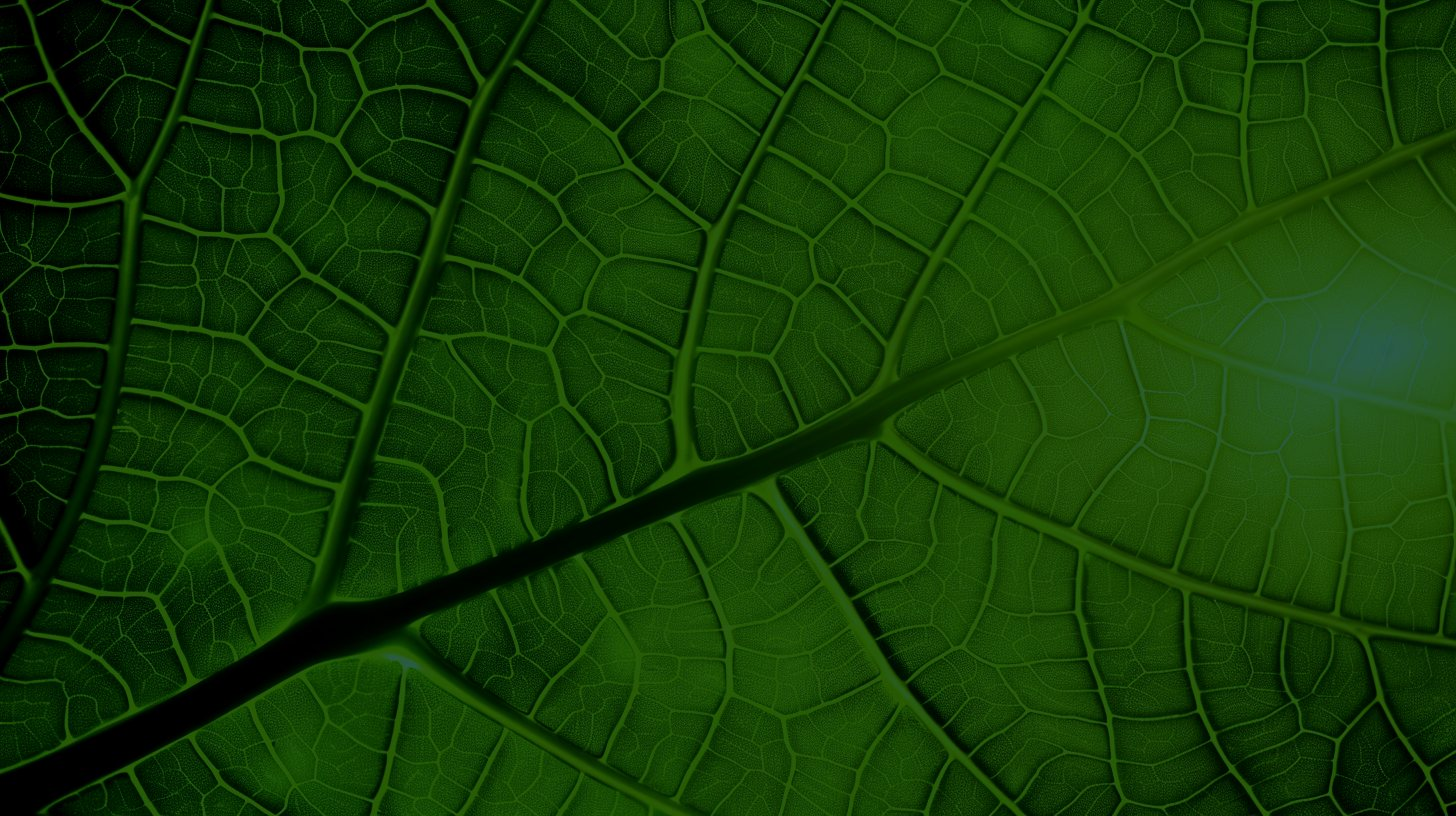
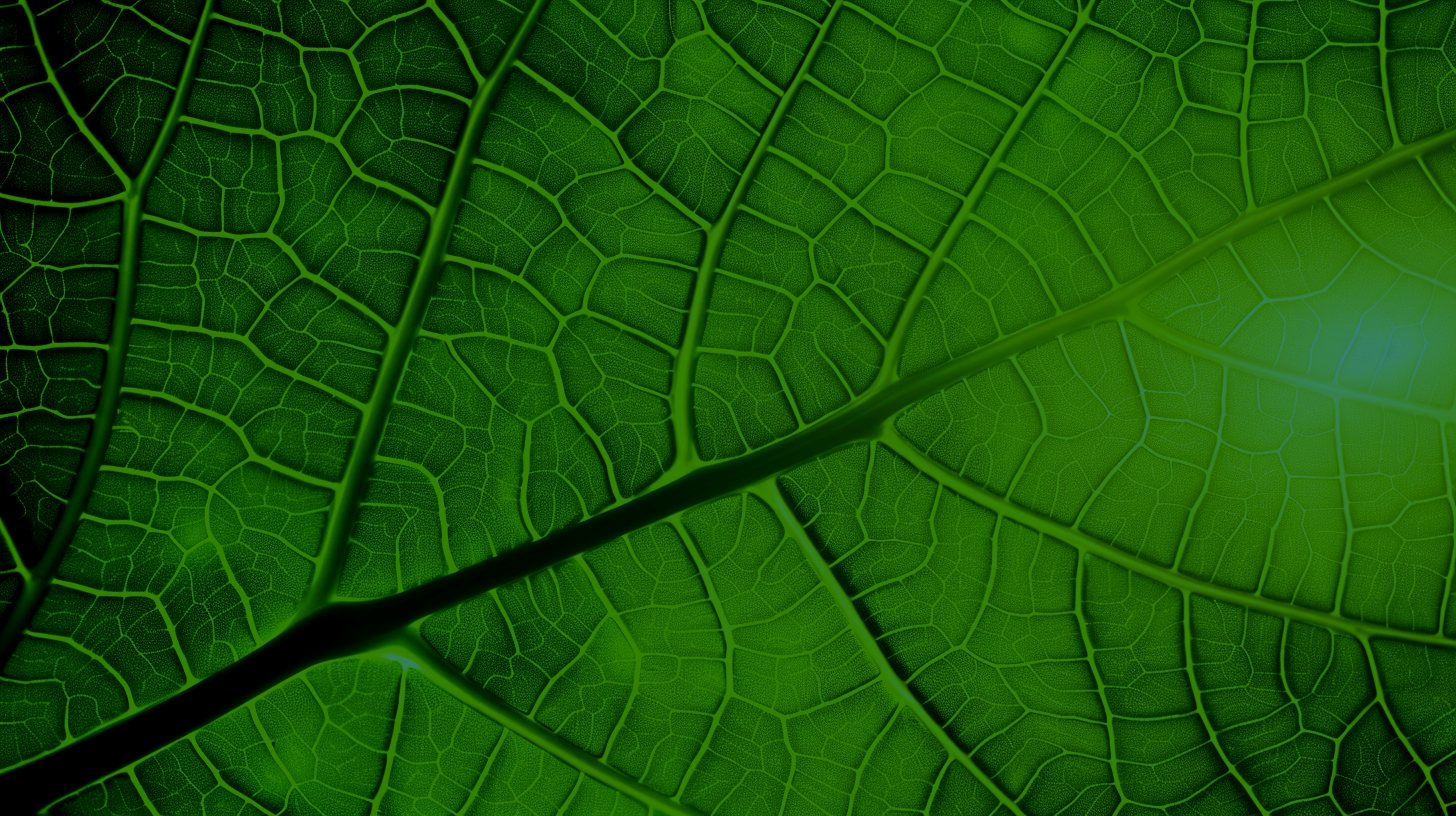
Amplify leaf-vein theme: brighter leaf, stronger sap flows

diff --git a/docs/assets/index-DJB-inN4.css b/docs/assets/index-DJB-inN4.css
@@ -1,0 +1,1 @@
+/*! tailwindcss v4.3.3 | MIT License | https://tailwindcss.com */@layer properties{@supports (((-webkit-hyphens:none)) and (not (margin-trim:inline))) or ((-moz-orient:inline) and (not (color:rgb(from red r g b)))){*,:before,:after,::backdrop{--tw-rotate-x:initial;--tw-rotate-y:initial;--tw-rotate-z:initial;--tw-skew-x:initial;--tw-skew-y:initial;--tw-shadow:0 0 #0000;--tw-shadow-color:initial;--tw-shadow-alpha:100%;--tw-inset-shadow:0 0 #0000;--tw-inset-shadow-color:initial;--tw-inset-shadow-alpha:100%;--tw-ring-color:initial;--tw-ring-shadow:0 0 #0000;--tw-inset-ring-color:initial;--tw-inset-ring-shadow:0 0 #0000;--tw-ring-inset:initial;--tw-ring-offset-width:0px;--tw-ring-offset-color:#fff;--tw-ring-offset-shadow:0 0 #0000;--tw-blur:initial;--tw-brightness:initial;--tw-contrast:initial;--tw-grayscale:initial;--tw-hue-rotate:initial;--tw-invert:initial;--tw-opacity:initial;--tw-saturate:initial;--tw-sepia:initial;--tw-drop-shadow:initial;--tw-drop-shadow-color:initial;--tw-drop-shadow-alpha:100%;--tw-drop-shadow-size:initial;--tw-ease:initial}}}@layer theme{:root,:host{--font-sans:-apple-system, BlinkMacSystemFont, "Segoe UI", Roboto, "Helvetica Neue", "Noto Sans", Arial, sans-serif, "Apple Color Emoji", "Segoe UI Emoji", "Segoe UI Symbol", "Noto Color Emoji";--font-mono:ui-monospace, SFMono-Regular, Menlo, Monaco, Consolas, "Liberation Mono", "Courier New", monospace;--ease-in:cubic-bezier(.4, 0, 1, 1);--ease-out:cubic-bezier(0, 0, .2, 1);--ease-in-out:cubic-bezier(.4, 0, .2, 1);--default-transition-duration:.15s;--default-transition-timing-function:cubic-bezier(.4, 0, .2, 1);--default-font-family:var(--font-sans);--default-mono-font-family:var(--font-mono)}}@layer base{*,:after,:before,::backdrop{box-sizing:border-box;border:0 solid;margin:0;padding:0}::file-selector-button{box-sizing:border-box;border:0 solid;margin:0;padding:0}html,:host{-webkit-text-size-adjust:100%;-moz-tab-size:4;tab-size:4;line-height:1.5;font-family:var(--default-font-family,-apple-system, BlinkMacSystemFont, "Segoe UI", Roboto, "Helvetica Neue", "Noto Sans", Arial, sans-serif, "Apple Color Emoji", "Segoe UI Emoji", "Segoe UI Symbol", "Noto Color Emoji");font-feature-settings:var(--default-font-feature-settings,normal);font-variation-settings:var(--default-font-variation-settings,normal);-webkit-tap-highlight-color:transparent}hr{height:0;color:inherit;border-top-width:1px}abbr:where([title]){-webkit-text-decoration:underline dotted;text-decoration:underline dotted}h1,h2,h3,h4,h5,h6{font-size:inherit;font-weight:inherit}a{color:inherit;-webkit-text-decoration:inherit;text-decoration:inherit}b,strong{font-weight:bolder}code,kbd,samp,pre{font-family:var(--default-mono-font-family,ui-monospace, SFMono-Regular, Menlo, Monaco, Consolas, "Liberation Mono", "Courier New", monospace);font-feature-settings:var(--default-mono-font-feature-settings,normal);font-variation-settings:var(--default-mono-font-variation-settings,normal);font-size:1em}small{font-size:80%}sub,sup{vertical-align:baseline;font-size:75%;line-height:0;position:relative}sub{bottom:-.25em}sup{top:-.5em}table{text-indent:0;border-color:inherit;border-collapse:collapse}:-moz-focusring:where(:not(iframe)){outline:auto}progress{vertical-align:baseline}summary{display:list-item}ol,ul,menu{list-style:none}img,svg,video,canvas,audio,iframe,embed,object{vertical-align:middle;display:block}img,video{max-width:100%;height:auto}button,input,select,optgroup,textarea{font:inherit;font-feature-settings:inherit;font-variation-settings:inherit;letter-spacing:inherit;color:inherit;opacity:1;background-color:#0000;border-radius:0}::file-selector-button{font:inherit;font-feature-settings:inherit;font-variation-settings:inherit;letter-spacing:inherit;color:inherit;opacity:1;background-color:#0000;border-radius:0}:where(select:is([multiple],[size])) optgroup{font-weight:bolder}:where(select:is([multiple],[size])) optgroup option{padding-inline-start:20px}::file-selector-button{margin-inline-end:4px}::placeholder{opacity:1}@supports (not ((-webkit-appearance:-apple-pay-button))) or (contain-intrinsic-size:1px){::placeholder{color:currentColor}@supports (color:color-mix(in lab,red,red)){::placeholder{color:color-mix(in oklab,currentcolor 50%,transparent)}}}textarea{resize:vertical}::-webkit-search-decoration{-webkit-appearance:none}::-webkit-date-and-time-value{min-height:1lh;text-align:inherit}::-webkit-datetime-edit{display:inline-flex}::-webkit-datetime-edit-fields-wrapper{padding:0}::-webkit-datetime-edit{padding-block:0}::-webkit-datetime-edit-year-field{padding-block:0}::-webkit-datetime-edit-month-field{padding-block:0}::-webkit-datetime-edit-day-field{padding-block:0}::-webkit-datetime-edit-hour-field{padding-block:0}::-webkit-datetime-edit-minute-field{padding-block:0}::-webkit-datetime-edit-second-field{padding-block:0}::-webkit-datetime-edit-millisecond-field{padding-block:0}::-webkit-datetime-edit-meridiem-field{padding-block:0}::-webkit-calendar-picker-indicator{line-height:1}:-moz-ui-invalid{box-shadow:none}button,input:where([type=button],[type=reset],[type=submit]){-webkit-appearance:button;-moz-appearance:button;appearance:button}::file-selector-button{-webkit-appearance:button;-moz-appearance:button;appearance:button}::-webkit-inner-spin-button{height:auto}::-webkit-outer-spin-button{height:auto}[hidden]:where(:not([hidden=until-found])){display:none!important}}@layer components;@layer utilities{.visible{visibility:visible}.absolute{position:absolute}.fixed{position:fixed}.relative{position:relative}.static{position:static}.contents{display:contents}.flex{display:flex}.grid{display:grid}.hidden{display:none}.table{display:table}.transform{transform:var(--tw-rotate-x,) var(--tw-rotate-y,) var(--tw-rotate-z,) var(--tw-skew-x,) var(--tw-skew-y,)}.resize{resize:both}.italic{font-style:italic}.ring{--tw-ring-shadow:var(--tw-ring-inset,) 0 0 0 calc(1px + var(--tw-ring-offset-width)) var(--tw-ring-color,currentcolor);box-shadow:var(--tw-inset-shadow),var(--tw-inset-ring-shadow),var(--tw-ring-offset-shadow),var(--tw-ring-shadow),var(--tw-shadow)}.blur{--tw-blur:blur(8px);filter:var(--tw-blur,) var(--tw-brightness,) var(--tw-contrast,) var(--tw-grayscale,) var(--tw-hue-rotate,) var(--tw-invert,) var(--tw-saturate,) var(--tw-sepia,) var(--tw-drop-shadow,)}.drop-shadow{--tw-drop-shadow-size:drop-shadow(0 1px 2px var(--tw-drop-shadow-color,#0000001a)) drop-shadow(0 1px 1px var(--tw-drop-shadow-color,#0000000f));--tw-drop-shadow:drop-shadow(0 1px 2px #0000001a) drop-shadow(0 1px 1px #0000000f);filter:var(--tw-blur,) var(--tw-brightness,) var(--tw-contrast,) var(--tw-grayscale,) var(--tw-hue-rotate,) var(--tw-invert,) var(--tw-saturate,) var(--tw-sepia,) var(--tw-drop-shadow,)}.filter{filter:var(--tw-blur,) var(--tw-brightness,) var(--tw-contrast,) var(--tw-grayscale,) var(--tw-hue-rotate,) var(--tw-invert,) var(--tw-saturate,) var(--tw-sepia,) var(--tw-drop-shadow,)}.transition{transition-property:color,background-color,border-color,outline-color,text-decoration-color,fill,stroke,--tw-gradient-from,--tw-gradient-via,--tw-gradient-to,opacity,box-shadow,transform,translate,scale,rotate,filter,-webkit-backdrop-filter,backdrop-filter,display,content-visibility,overlay,pointer-events;transition-timing-function:var(--tw-ease,var(--default-transition-timing-function));transition-duration:var(--tw-duration,var(--default-transition-duration))}.transition\!{transition-property:color,background-color,border-color,outline-color,text-decoration-color,fill,stroke,--tw-gradient-from,--tw-gradient-via,--tw-gradient-to,opacity,box-shadow,transform,translate,scale,rotate,filter,-webkit-backdrop-filter,backdrop-filter,display,content-visibility,overlay,pointer-events!important;transition-timing-function:var(--tw-ease,var(--default-transition-timing-function))!important;transition-duration:var(--tw-duration,var(--default-transition-duration))!important}.ease-in{--tw-ease:var(--ease-in);transition-timing-function:var(--ease-in)}.ease-in-out{--tw-ease:var(--ease-in-out);transition-timing-function:var(--ease-in-out)}.ease-out{--tw-ease:var(--ease-out);transition-timing-function:var(--ease-out)}}:root{--ink:#f0f0ec;--ink-dim:#f0f0ec9e;--ink-faint:#f0f0ec61;--base:#050505;--gold:#e8a84c;--gold-soft:#e8a84c8c;--nebula:#8e7cc3;--teal:#3fa39a;--pulse:#59d9a0;--pulse-blue:#4fa8d8;--forest:#131a12;--serif:"Playfair Display", Georgia, serif;--grotesk:"Space Grotesk", system-ui, sans-serif;--body:"Inter", system-ui, sans-serif;--mono:"JetBrains Mono", ui-monospace, monospace}html,body{background:var(--base);color:var(--ink)}body{font-family:var(--body);-webkit-font-smoothing:antialiased;margin:0;font-size:16px;line-height:1.6}h1,h2,h3{font-family:var(--grotesk);margin:0;font-weight:600;line-height:1.12}a{color:inherit}::selection{background:#e8a84c59}.serif-display{font-family:var(--serif);letter-spacing:.005em;font-weight:500;line-height:1.06}.mono-label{font-family:var(--mono);letter-spacing:.22em;text-transform:uppercase;color:var(--ink-faint);font-size:.685rem}.thin-rule{border:0;border-top:1px solid #f0f0ec1f}:focus-visible{outline:1.5px solid var(--gold);outline-offset:3px;border-radius:2px}@keyframes sn-bloom{0%,to{opacity:.35}50%{opacity:.7}}@keyframes sn-flicker{0%,to{opacity:1}46%{opacity:.965}52%{opacity:.99}71%{opacity:.955}}@keyframes sn-rise{0%{opacity:0;transform:translateY(0)translate(0)}12%{opacity:var(--fly-peak,.8)}88%{opacity:var(--fly-peak,.8)}to{transform:translateY(-46vh) translate(var(--fly-drift,12px));opacity:0}}@keyframes sn-ring-spin{0%{transform:rotate(0)}to{transform:rotate(360deg)}}@keyframes sn-ring-spin-rev{0%{transform:rotate(0)}to{transform:rotate(-360deg)}}@keyframes sn-tick{0%,to{opacity:.25}50%{opacity:.9}}@keyframes sn-stream-x{0%{transform:translate(-30%)}to{transform:translate(130vw)}}@keyframes sn-stream-y{0%{transform:translateY(-30%)}to{transform:translateY(130vh)}}@keyframes sn-twinkle{0%,to{opacity:.25}50%{opacity:.85}}@keyframes sn-drift{0%{transform:translateY(0)}to{transform:translateY(-38px)}}@keyframes sn-chart-draw{0%{stroke-dashoffset:260px}to{stroke-dashoffset:0}}@keyframes sn-bar{0%,to{transform:scaleY(.55)}50%{transform:scaleY(1)}}@keyframes sn-type{0%{width:0}to{width:100%}}@keyframes sn-caret{0%,to{opacity:0}50%{opacity:1}}@keyframes sn-glow-pulse{0%,to{box-shadow:0 0 18px 2px var(--glow-c,#e8a84c1a)}50%{box-shadow:0 0 30px 6px var(--glow-c,#e8a84c38)}}.stage-viewport{background:var(--base);position:fixed;top:0;right:0;bottom:0;left:0;overflow:hidden}.stage-viewport.letterboxed:before,.stage-viewport.letterboxed:after{content:"";z-index:2;pointer-events:none;height:24%;position:absolute;left:0;right:0}.stage-viewport.letterboxed:before{background:linear-gradient(180deg,var(--base) 6%,transparent 100%);top:0}.stage-viewport.letterboxed:after{background:linear-gradient(0deg,var(--base) 6%,transparent 100%);bottom:0}.stage{position:absolute;top:50%;left:50%;transform:translate(-50%,-50%)}.stage img.stage-img{width:100%;height:100%;display:block;position:absolute;top:0;right:0;bottom:0;left:0}.screen-surface{transform-origin:0 0;animation:4s ease-in-out infinite sn-flicker;display:block;position:absolute;top:0;left:0;overflow:hidden}.screen-surface .screen-inner{filter:brightness(.92);width:100%;height:100%;animation:.95s ease-out sn-power-on;animation-delay:var(--pon-delay,0s);transition:filter .45s;animation-fill-mode:backwards;position:relative}@keyframes sn-power-on{0%{opacity:0;filter:brightness(0)}9%{opacity:1;filter:brightness(2.1)}20%{opacity:.5;filter:brightness(.45)}34%{opacity:1;filter:brightness(1.55)}58%{opacity:1;filter:brightness(.78)}to{opacity:1;filter:brightness(.92)}}.screen-link{cursor:pointer}.screen-link:hover .screen-inner,.screen-link:focus-visible .screen-inner{filter:brightness(1.12)}.screen-label{opacity:0;white-space:nowrap;color:var(--ink);font-family:var(--mono);letter-spacing:.28em;text-shadow:0 0 12px #000000e6;font-size:11px;transition:opacity .45s;position:absolute;bottom:7%;left:50%;transform:translate(-50%)}.screen-link:hover .screen-label,.screen-link:focus-visible .screen-label{opacity:.9}.sun-bloom{pointer-events:none;mix-blend-mode:screen;background:radial-gradient(#ffc46e6b,#ffaa4624 42%,#0000 70%);animation:4.2s ease-in-out infinite sn-bloom;position:absolute}.firefly{pointer-events:none;animation:sn-rise var(--fly-dur,14s) linear infinite;animation-delay:var(--fly-delay,0s);mix-blend-mode:screen;background:radial-gradient(circle,#ffd68cf2,#ffbe5a59 45%,#0000 75%);border-radius:999px;position:absolute}.home-quiet-nav{z-index:5;gap:2.6rem;display:flex;position:fixed;bottom:4.5vh;left:50%;transform:translate(-50%)}.home-quiet-nav a{font-family:var(--mono);letter-spacing:.3em;text-transform:uppercase;color:var(--ink-faint);font-size:10.5px;text-decoration:none;transition:color .35s}.home-quiet-nav a:hover{color:var(--ink)}.sui{width:100%;height:100%;color:var(--ink);font-family:var(--mono);background:#0a0d0a;position:relative;overflow:hidden}.sui-pad{position:absolute;top:6.5%;right:7%;bottom:6.5%;left:7%}.sui-title{letter-spacing:.3em;color:var(--ink-dim);font-size:13px;transition:opacity .3s}.screen-link:hover .sui-title,.screen-link:focus-visible .sui-title{opacity:0}.sui-hr{border-top:1px solid #f0f0ec24;margin:10px 0}.sui-row{color:var(--ink-dim);justify-content:space-between;padding:6px 0;font-size:12.5px;display:flex}.sui-row b{color:var(--ink);font-weight:500}.sui-bars{align-items:flex-end;gap:7px;height:74px;display:flex}.sui-bars span{transform-origin:bottom;animation:sn-bar var(--bar-dur,3.4s) ease-in-out infinite;animation-delay:var(--bar-delay,0s);background:linear-gradient(#59d9a0d9,#59d9a040);flex:1}.sui-typeline{white-space:nowrap;color:var(--pulse);font-size:12px;animation:5.2s steps(38,end) infinite sn-type;overflow:hidden}.sui-dot{background:var(--pulse);vertical-align:1px;border-radius:99px;width:7px;height:7px;margin-right:8px;animation:2.2s ease-in-out infinite sn-tick;display:inline-block}.sui-rings{position:absolute;top:0;right:0;bottom:0;left:0}.sui-ring{border:1.5px solid;border-radius:999px;position:absolute}.sui-center-logo{object-fit:contain;filter:drop-shadow(0 0 18px #59d9a040);width:58%;max-height:82%}.page{min-height:100dvh;position:relative;overflow-x:clip}.page-inner{z-index:2;max-width:1460px;margin:0 auto;padding:clamp(5.5rem,10vh,8rem) clamp(1.25rem,5vw,4.5rem) 6rem;position:relative}.wordmark{z-index:40;align-items:center;gap:.7rem;text-decoration:none;display:flex;position:fixed;top:2rem;left:clamp(1.25rem,4vw,3rem)}.wordmark:before{content:"";z-index:-1;pointer-events:none;background:linear-gradient(#050505f5,#050505b8 52%,#0000);height:5.4rem;position:fixed;top:0;left:0;right:0}.wordmark img{object-fit:contain;width:30px;height:30px}.wordmark span{font-family:var(--grotesk);letter-spacing:.34em;color:var(--ink-dim);font-size:.82rem;transition:color .3s}.wordmark .wordmark-arrow{font-family:var(--mono);letter-spacing:0;color:var(--accent,var(--gold));font-size:1rem;transition:transform .3s}.wordmark:hover span{color:var(--ink)}.wordmark:hover .wordmark-arrow{transform:translate(-4px)}.wordmark-right{left:auto;right:clamp(1.25rem,4vw,3rem)}.wordmark-right:hover .wordmark-arrow{transform:translate(4px)}.crosslink{font-family:var(--mono);letter-spacing:.26em;text-transform:uppercase;color:var(--ink-faint);font-size:11px;text-decoration:none}.crosslink:hover{color:var(--ink)}.cta-block{text-align:center;margin-top:clamp(5rem,12vh,8rem)}.cta-statement{color:var(--ink);font-size:clamp(2.4rem,6vw,4.6rem)}.cta-button{font-family:var(--mono);letter-spacing:.3em;text-transform:uppercase;color:var(--ink);border:1px solid #f0f0ec47;margin-top:2.2rem;padding:1rem 2.6rem;font-size:.8rem;text-decoration:none;transition:border-color .35s,background .35s,color .35s;display:inline-block}.cta-button:hover{border-color:var(--accent,var(--gold));background:#f0f0ec0d}.cosmos-bg{z-index:0;background:radial-gradient(1100px 700px at 78% 30%,#8e7cc329,#0000 65%),radial-gradient(900px 640px at 20% 78%,#3fa39a21,#0000 65%),linear-gradient(#03050f,#0a0a1a);position:absolute;top:0;right:0;bottom:0;left:0;overflow:hidden}.stars{animation:90s linear infinite alternate sn-drift;position:absolute;top:-40px;right:0;bottom:0;left:0}.stars circle{animation:sn-twinkle var(--tw-dur,4s) ease-in-out infinite;animation-delay:var(--tw-delay,0s)}.personal-grid{grid-template-columns:minmax(0,1fr) minmax(0,1.15fr);align-items:center;gap:clamp(2.5rem,6vw,7rem);display:grid}.personal-copy{max-width:38rem;position:relative}.personal-copy:before{content:"";pointer-events:none;background:radial-gradient(circle,#3fa39a17,#0000 70%);border-radius:999px;width:340px;height:340px;position:absolute;top:-3rem;left:-4rem}.pp-eyebrow{color:var(--teal);align-items:center;gap:.8rem;display:inline-flex}.pp-eyebrow:after{content:"";background:#f0f0ec40;width:44px;height:1px}.pp-headline{margin:1.3rem 0 1.6rem;font-size:clamp(2.6rem,4vw,4.4rem)}.pp-lead{color:var(--ink);opacity:.92;margin:0 0 1.15rem;font-size:1.02rem;line-height:1.75}.pp-dim{color:var(--ink-dim);margin:0;font-size:.95rem;line-height:1.75}.pp-section{border-top:1px solid #f0f0ec1a;margin-top:2.6rem;padding-top:1.8rem}.pp-prompt{margin:0 0 .9rem;font-size:1.12rem;font-weight:500}.pp-instruction{align-items:center;gap:.65rem;margin:0;display:flex}.pp-pulse{background:var(--nebula);border-radius:99px;flex:none;width:8px;height:8px;animation:2.6s ease-in-out infinite sn-tick;box-shadow:0 0 12px 2px #8e7cc380}.pp-rows{margin:1.2rem 0 0;padding:0;list-style:none}.pp-row{text-align:left;width:100%;color:var(--ink-dim);font-family:var(--grotesk);cursor:pointer;background:0 0;border:0;border-top:1px solid #f0f0ec14;align-items:center;gap:.9rem;padding:.85rem .2rem;font-size:1rem;transition:color .3s,padding-left .3s;display:flex}.pp-rows li:last-child .pp-row{border-bottom:1px solid #f0f0ec14}.pp-row:hover,.pp-row:focus-visible{color:var(--ink);padding-left:.55rem}.pp-row-dot{opacity:.85;background:radial-gradient(circle,#fff 0%,var(--nebula) 60%,transparent 80%);border-radius:99px;flex:none;width:7px;height:7px}.pp-support{color:var(--ink-faint);margin:1.5rem 0 0;font-size:.85rem;line-height:1.7}.pp-close{margin-top:2.6rem}.pp-close .thin-rule{width:64px;margin:0 0 1.5rem}.pp-close-line{color:var(--ink-dim);margin:0;font-size:1.25rem;font-style:italic;line-height:1.5}.orbit-wrap{aspect-ratio:1;width:100%;max-width:680px;position:relative}.orbit-ring{border:1px solid #f0f0ec1a;border-radius:999px;position:absolute}.orbit-core{place-items:center;display:grid;position:absolute;top:50%;left:50%;transform:translate(-50%,-50%)}.orbit-core img{object-fit:contain;filter:drop-shadow(0 0 26px #8e7cc380);width:108px;height:108px}.orbit-node{cursor:pointer;color:var(--ink);background:0 0;border:0;flex-direction:column;align-items:center;gap:.5rem;min-width:44px;min-height:44px;padding:.65rem;display:flex;position:absolute;transform:translate(-50%,-50%)}.orbit-node .node-dot{background:radial-gradient(circle,#fff 0%,var(--nebula) 55%,transparent 78%);--glow-c:#8e7cc366;border-radius:99px;width:15px;height:15px;transition:transform .35s,box-shadow .35s;animation:6s ease-in-out infinite sn-glow-pulse}.orbit-node:hover .node-dot,.orbit-node:focus-visible .node-dot,.orbit-node.is-hot .node-dot{transform:scale(1.5);box-shadow:0 0 0 11px #8e7cc31f,0 0 26px 6px #8e7cc373}.orbit-node .node-label{font-family:var(--mono);letter-spacing:.22em;text-transform:uppercase;color:#f0f0ecb8;white-space:nowrap;font-size:10px;transition:color .3s}.orbit-node:hover .node-label,.orbit-node:focus-visible .node-label,.orbit-node.is-hot .node-label{color:var(--ink)}.node-hint{font-family:var(--mono);letter-spacing:.26em;text-transform:uppercase;color:var(--nebula);opacity:0;white-space:nowrap;font-size:8.5px;transition:opacity .35s,transform .35s;transform:translateY(-3px)}.orbit-node:hover .node-hint,.orbit-node:focus-visible .node-hint,.orbit-node.is-hot .node-hint{opacity:.95;transform:translateY(0)}.pp-cue-line{background:linear-gradient(90deg,#0000,#8e7cc3a6);width:0;height:1px;margin-left:.9rem;animation:2.2s cubic-bezier(.22,1,.36,1) 1s forwards sn-cue-grow}.pp-cue-arrow{color:var(--nebula);opacity:0;animation:.6s 2.9s forwards sn-cue-show}@keyframes sn-cue-grow{to{width:clamp(40px,8vw,150px)}}@keyframes sn-cue-show{to{opacity:.9}}.orbit-cell{flex-direction:column;align-items:center;gap:.9rem;width:100%;min-width:0;display:flex}.orbit-caption{text-align:center;transition:opacity .4s}.orbit-caption-main{color:var(--ink-dim);align-items:center;gap:.6rem;margin:0;display:inline-flex}.orbit-caption-sub{font-family:var(--serif);color:var(--ink-faint);margin:.45rem 0 0;font-size:.92rem;font-style:italic}.category-card{z-index:6;-webkit-backdrop-filter:blur(14px);backdrop-filter:blur(14px);background:#060814e0;border:1px solid #f0f0ec24;flex-direction:column;padding:clamp(1.4rem,3.2vw,2.6rem);display:flex;position:absolute;top:4%;right:4%;bottom:4%;left:4%;overflow-y:auto}.card-close{color:var(--ink-faint);font-family:var(--mono);letter-spacing:.2em;cursor:pointer;background:0 0;border:0;padding:.4rem;font-size:11px;position:absolute;top:1rem;right:1.1rem}.card-close:hover{color:var(--ink)}.feature-row{border-top:1px solid #f0f0ec17;gap:1rem;padding:.78rem 0;font-size:.92rem;display:flex}.feature-row strong{font-family:var(--grotesk);min-width:11.2rem;color:var(--ink);font-weight:500}.feature-row span{color:var(--ink-dim)}.bz-leaf{z-index:0;pointer-events:none;opacity:.78;background:url(./leaf-bg.jpg) 50% 30%/cover no-repeat fixed;position:absolute;top:0;right:0;bottom:0;left:0}.grid-bg{z-index:0;background:linear-gradient(#060a08cc,#060a086b 38%,#050806d6);position:absolute;top:0;right:0;bottom:0;left:0}.grid-bg:after{content:"";position:absolute;top:0;right:0;bottom:0;left:0;box-shadow:inset 0 0 180px 60px #0000008c}.bz-veins{z-index:1;pointer-events:none;opacity:.8;width:100%;height:100%;position:absolute;top:0;right:0;bottom:0;left:0}.bz-vein-static{fill:none;stroke:#59d9a033;stroke-width:1.7px}.bz-vein-flow{fill:none;stroke:#78ebb4bf;stroke-width:1.8px;stroke-linecap:round;stroke-dasharray:5 34;animation-name:sn-vein-flow;animation-timing-function:linear;animation-iteration-count:infinite}@keyframes sn-vein-flow{to{stroke-dashoffset:-39px}}.bz-headline{max-width:46rem;margin:1.3rem 0 1.5rem;font-size:clamp(2.2rem,4.4vw,3.5rem)}.bz-lead{color:var(--ink);opacity:.92;max-width:42rem;margin:0 0 1.15rem;font-size:1.02rem;line-height:1.75}.bz-dim{color:var(--ink-dim);max-width:42rem;margin:0;font-size:.95rem;line-height:1.75}.bz-section{border-top:1px solid #f0f0ec1a;margin-top:2.8rem;padding-top:1.8rem}.bz-pulse{background:var(--pulse);box-shadow:0 0 12px 2px #59d9a073}.biz-columns{grid-template-columns:1fr 1fr;gap:clamp(2.4rem,6vw,5rem);margin-top:3.2rem;display:grid}.bz-pillar{min-width:0}.biz-columns>.bz-pillar+.bz-pillar{border-left:1px solid #f0f0ec17;padding-left:clamp(2.4rem,5vw,5rem)}.bz-tag{align-items:center;gap:.7rem;display:inline-flex}.bz-ops .bz-tag{color:var(--pulse)}.bz-team .bz-tag{color:var(--pulse-blue)}.bz-tag:after{content:"";background:#f0f0ec38;width:36px;height:1px}.bz-title{margin:.9rem 0 1rem;font-size:1.45rem;font-weight:600}.bz-body{color:var(--ink-dim);margin:0 0 1.6rem;font-size:.93rem;line-height:1.72}.bz-pillar{transition:opacity .45s}.bz-pillar.is-rest{opacity:.62}.bz-module{background:linear-gradient(#f0f0ec07,#f0f0ec03);border:1px solid #f0f0ec21;padding:1.15rem 1.25rem 1.05rem;transition:border-color .4s,box-shadow .4s}.bz-ops.is-live .bz-module{border-color:#59d9a059;box-shadow:0 0 44px -16px #59d9a04d}.bz-team.is-live .bz-module{border-color:#4fa8d859;box-shadow:0 0 44px -16px #4fa8d84d}.bz-module-head{border-bottom:1px solid #f0f0ec17;justify-content:space-between;align-items:center;margin-bottom:1rem;padding-bottom:.8rem;display:flex}.bz-live-dot{border-radius:99px;width:7px;height:7px;animation:2.2s ease-in-out infinite sn-tick}.bz-live-ops{background:var(--pulse);box-shadow:0 0 10px 1px #59d9a080}.bz-live-team{background:var(--pulse-blue);box-shadow:0 0 10px 1px #4fa8d880}.bz-module-foot{letter-spacing:.16em;border-top:1px solid #f0f0ec12;margin:1rem 0 0;padding-top:.8rem;line-height:1.8}.bz-rail{justify-content:space-between;margin-top:1.2rem;padding-top:1rem;display:flex;position:relative}.bz-rail:before{content:"";background:#59d9a02e;height:1px;position:absolute;top:calc(1rem + .55em);left:2%;right:2%}.bz-rail-stage{font-family:var(--mono);letter-spacing:.22em;text-transform:uppercase;color:var(--ink-faint);background:#0a0f0c;padding:0 .5rem;font-size:.62rem;position:relative}.bz-rail-pulse{background:var(--pulse);border-radius:99px;width:6px;height:6px;animation:7s linear infinite sn-rail-run;position:absolute;top:calc(1rem + .55em - 2.5px);left:2%;box-shadow:0 0 10px 2px #59d9a08c}@keyframes sn-rail-run{0%{opacity:0;left:2%}6%{opacity:1}94%{opacity:1}to{opacity:0;left:96%}}.bz-comm{flex-direction:column;display:flex}.bz-comm-row{border-top:1px solid #f0f0ec0f;align-items:center;gap:.8rem;padding:.55rem 0;display:flex}.bz-comm-row:first-child{border-top:0}.bz-comm-dot{background:var(--pulse-blue);border-radius:99px;flex:none;width:6px;height:6px;animation:2.8s ease-in-out infinite sn-tick;box-shadow:0 0 8px 1px #4fa8d880}.bz-comm-name{font-family:var(--grotesk);color:var(--ink);font-size:.88rem}.bz-comm-status{font-family:var(--mono);letter-spacing:.14em;text-transform:uppercase;color:var(--ink-faint);margin-left:auto;font-size:.64rem}.bz-metrics{grid-template-columns:repeat(3,1fr);gap:1rem;display:grid}.bz-metric-num{font-family:var(--grotesk);color:var(--ink);font-size:1.7rem;font-weight:600}.bz-metric-num em{color:var(--pulse);font-style:normal}.bz-metric .mono-label{margin-top:.25rem}.bz-thread{justify-content:space-between;align-items:center;height:2.55rem;display:flex;position:relative}.bz-thread:before{content:"";background:#4fa8d847;height:1px;position:absolute;top:50%;left:3px;right:3px}.bz-thread-dot{background:radial-gradient(circle,#fff 0%,var(--pulse-blue) 60%,transparent 85%);border-radius:99px;flex:none;width:9px;height:9px;animation:2.5s ease-in-out infinite sn-tick;position:relative}.bz-items{margin:1.6rem 0 0;padding:0;list-style:none}.bz-item{font-family:var(--grotesk);color:var(--ink-dim);border-top:1px solid #f0f0ec14;align-items:center;gap:.85rem;padding:.8rem .1rem;font-size:.98rem;transition:color .3s;display:flex}.bz-item:hover{color:var(--ink)}.bz-items li:last-child .bz-item,.bz-items li:last-child.bz-item{border-bottom:1px solid #f0f0ec14}.bz-marker{flex:none;width:7px;height:7px}.bz-marker-ops{background:#59d9a0bf}.bz-marker-team{background:#4fa8d8cc;border-radius:99px}.bz-transition,.page-transition{text-align:center;z-index:2;margin-top:clamp(4.5rem,10vh,7rem);position:relative}.bz-transition-rule,.page-transition-rule{width:64px;margin:0 auto 1.8rem}.bz-transition-headline,.page-transition-headline{margin:0 0 1.2rem;font-size:clamp(2rem,4.4vw,3.2rem)}.bz-transition-body,.page-transition-body{max-width:38rem;color:var(--ink-dim);margin:0 auto 2.2rem;font-size:.95rem;line-height:1.75}.poster-band{height:min(56vh,560px);position:relative;overflow:hidden}.poster-band img{object-fit:cover;object-position:center 38%;width:100%;height:100%;display:block}.poster-band:after{content:"";background:linear-gradient(180deg,#0505051f 0%,#05050547 55%,var(--base) 98%);position:absolute;top:0;right:0;bottom:0;left:0}.track-panels{grid-template-columns:1fr 1fr;gap:1.4rem;margin:2.6rem 0;display:grid}.track-panel{text-align:left;cursor:pointer;color:var(--ink);background:#f0f0ec07;border:1px solid #f0f0ec24;padding:1.6rem 1.5rem;transition:border-color .3s,background .3s}.track-panel:hover{border-color:#f0f0ec66}.track-panel[aria-pressed=true]{border-color:var(--accent);background:#f0f0ec0d}.track-panel .mono-label{color:var(--accent)}.chip-row{flex-wrap:wrap;gap:.7rem;margin:1.1rem 0 2rem;display:flex}.chip{font-family:var(--mono);letter-spacing:.14em;text-transform:uppercase;cursor:pointer;color:var(--ink-dim);background:0 0;border:1px solid #f0f0ec29;padding:.55rem 1rem;font-size:.72rem;transition:all .25s}.chip[aria-pressed=true]{color:var(--ink);border-color:var(--accent);background:#f0f0ec0d}.field{margin-bottom:1.5rem;display:block}.field span{margin-bottom:.5rem;display:block}.field input,.field textarea{box-sizing:border-box;width:100%;color:var(--ink);font-family:var(--body);background:#f0f0ec08;border:1px solid #f0f0ec29;padding:.85rem 1rem;font-size:.95rem}.field input:focus,.field textarea:focus{border-color:var(--accent);outline:none}.mobile-home{display:none}.mh-bg{object-fit:cover;object-position:50% 26%;width:100%;height:100%;position:absolute;top:0;right:0;bottom:0;left:0}.mh-scrim{background:linear-gradient(#050505a8,#0505052e 26%,#0505050f,#0505054d 62%,#050505d1 82%,#050505f2);position:absolute;top:0;right:0;bottom:0;left:0}.mh-ambient{pointer-events:none;position:absolute;top:0;right:0;bottom:0;left:0}.mh-screen-logo{z-index:1;pointer-events:none;place-items:center;animation:.95s ease-out .45s backwards sn-power-on;display:grid;position:absolute}.mh-screen-logo img{object-fit:contain;filter:drop-shadow(0 0 16px #59d9a038);width:56%;max-height:82%}.mh-bottom{z-index:2;flex-direction:column;gap:.95rem;display:flex;position:relative}.mh-tagline{font-family:var(--mono);letter-spacing:.24em;text-transform:uppercase;color:var(--ink-dim);text-align:center;text-shadow:0 1px 10px #000c;margin:0 0 .35rem;font-size:.66rem}.mh-actions{flex-direction:column;gap:.8rem;display:flex}.mh-action{min-height:56px;color:var(--ink);font-family:var(--mono);letter-spacing:.22em;text-transform:uppercase;background:#0505056b;border:1px solid #f0f0ec57;justify-content:center;align-items:center;padding:0 1.3rem;font-size:.76rem;text-decoration:none;transition:background .25s,border-color .25s;display:flex}.mh-action:active{background:#f0f0ec24;border-color:#f0f0ec99}@media (max-width:880px){.stage-viewport,.home-quiet-nav{display:none}.mobile-home{min-height:100dvh;padding:calc(2rem + env(safe-area-inset-top)) 1.35rem calc(1.5rem + env(safe-area-inset-bottom));flex-direction:column;justify-content:flex-end;display:flex;position:relative;overflow:hidden}.personal-grid{grid-template-columns:1fr}.orbit-cell{order:-1;justify-self:center}.orbit-wrap{max-width:min(88vw,420px)}.pp-cue-line,.pp-cue-arrow{display:none}.biz-columns,.track-panels{grid-template-columns:1fr}.biz-columns>.bz-pillar+.bz-pillar{border-top:1px solid #f0f0ec17;border-left:0;padding-top:2.4rem;padding-left:0}.feature-row strong{min-width:8.5rem}.category-card{z-index:60;position:fixed;top:4vh;right:4vw;bottom:4vh;left:4vw}}@media (prefers-reduced-motion:reduce){*,:before,:after{transition-duration:.01ms!important;animation-duration:.01ms!important;animation-iteration-count:1!important}}@media (min-width:881px) and (max-aspect-ratio:21/20){.stage-viewport,.home-quiet-nav{display:none}.mobile-home{min-height:100dvh;padding:2.2rem 2.2rem calc(1.8rem + env(safe-area-inset-bottom));flex-direction:column;justify-content:flex-end;display:flex;position:relative;overflow:hidden}.mh-actions{width:100%;max-width:30rem;margin:0 auto}.mh-tagline{text-align:center}}@property --tw-rotate-x{syntax:"*";inherits:false}@property --tw-rotate-y{syntax:"*";inherits:false}@property --tw-rotate-z{syntax:"*";inherits:false}@property --tw-skew-x{syntax:"*";inherits:false}@property --tw-skew-y{syntax:"*";inherits:false}@property --tw-shadow{syntax:"*";inherits:false;initial-value:0 0 #0000}@property --tw-shadow-color{syntax:"*";inherits:false}@property --tw-shadow-alpha{syntax:"<percentage>";inherits:false;initial-value:100%}@property --tw-inset-shadow{syntax:"*";inherits:false;initial-value:0 0 #0000}@property --tw-inset-shadow-color{syntax:"*";inherits:false}@property --tw-inset-shadow-alpha{syntax:"<percentage>";inherits:false;initial-value:100%}@property --tw-ring-color{syntax:"*";inherits:false}@property --tw-ring-shadow{syntax:"*";inherits:false;initial-value:0 0 #0000}@property --tw-inset-ring-color{syntax:"*";inherits:false}@property --tw-inset-ring-shadow{syntax:"*";inherits:false;initial-value:0 0 #0000}@property --tw-ring-inset{syntax:"*";inherits:false}@property --tw-ring-offset-width{syntax:"<length>";inherits:false;initial-value:0}@property --tw-ring-offset-color{syntax:"*";inherits:false;initial-value:#fff}@property --tw-ring-offset-shadow{syntax:"*";inherits:false;initial-value:0 0 #0000}@property --tw-blur{syntax:"*";inherits:false}@property --tw-brightness{syntax:"*";inherits:false}@property --tw-contrast{syntax:"*";inherits:false}@property --tw-grayscale{syntax:"*";inherits:false}@property --tw-hue-rotate{syntax:"*";inherits:false}@property --tw-invert{syntax:"*";inherits:false}@property --tw-opacity{syntax:"*";inherits:false}@property --tw-saturate{syntax:"*";inherits:false}@property --tw-sepia{syntax:"*";inherits:false}@property --tw-drop-shadow{syntax:"*";inherits:false}@property --tw-drop-shadow-color{syntax:"*";inherits:false}@property --tw-drop-shadow-alpha{syntax:"<percentage>";inherits:false;initial-value:100%}@property --tw-drop-shadow-size{syntax:"*";inherits:false}@property --tw-ease{syntax:"*";inherits:false}

diff --git a/src/index.css b/src/index.css
@@ -303,10 +303,10 @@ a { color: inherit; }
   position: absolute; inset: 0; z-index: 0; pointer-events: none;
   background: url('./leaf-bg.jpg') center 30% / cover no-repeat;
   background-attachment: fixed;
-  opacity: .6;
+  opacity: .78;
 }
 .grid-bg { position: absolute; inset: 0; z-index: 0;
-  background: linear-gradient(180deg, rgba(6,10,8,.86) 0%, rgba(6,10,8,.62) 38%, rgba(5,8,6,.9) 100%);
+  background: linear-gradient(180deg, rgba(6,10,8,.8) 0%, rgba(6,10,8,.42) 38%, rgba(5,8,6,.84) 100%);
 }
 .grid-bg::after { content: ""; position: absolute; inset: 0; box-shadow: inset 0 0 180px 60px rgba(0,0,0,.55); }
 /* Circulatory overlay: faint veins plus flowing sap pulses */
@@ -314,9 +314,9 @@ a { color: inherit; }
   position: absolute; inset: 0; z-index: 1; width: 100%; height: 100%;
   pointer-events: none; opacity: .8;
 }
-.bz-vein-static { fill: none; stroke: rgba(89,217,160,.10); stroke-width: 1.4; }
+.bz-vein-static { fill: none; stroke: rgba(89,217,160,.20); stroke-width: 1.7; }
 .bz-vein-flow {
-  fill: none; stroke: rgba(89,217,160,.45); stroke-width: 1.4; stroke-linecap: round;
+  fill: none; stroke: rgba(120,235,180,.75); stroke-width: 1.8; stroke-linecap: round;
   stroke-dasharray: 5 34;
   animation-name: sn-vein-flow; animation-timing-function: linear; animation-iteration-count: infinite;
 }

diff --git a/docs/index.html b/docs/index.html
@@ -14,8 +14,8 @@
     <meta property="og:title" content="Second Nature" />
     <meta property="og:description" content="Intelligent agent systems for personal and business use." />
     <meta property="og:image" content="./hero.jpg" />
-    <script type="module" crossorigin src="./assets/index-hBP67gZX.js"></script>
-    <link rel="stylesheet" crossorigin href="./assets/index-C-ey3fd-.css">
+    <script type="module" crossorigin src="./assets/index-CL44OO1s.js"></script>
+    <link rel="stylesheet" crossorigin href="./assets/index-DJB-inN4.css">
   </head>
   <body>
     <div id="root"></div>
